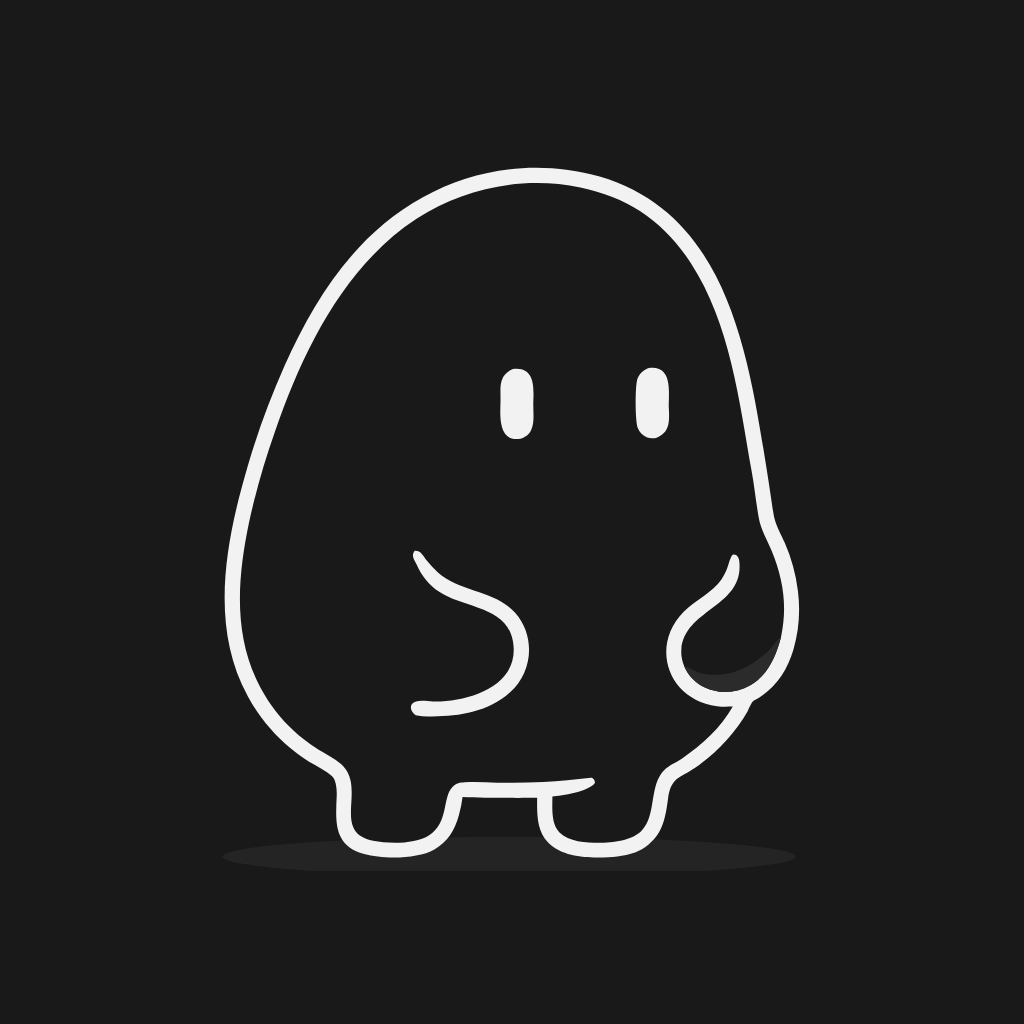
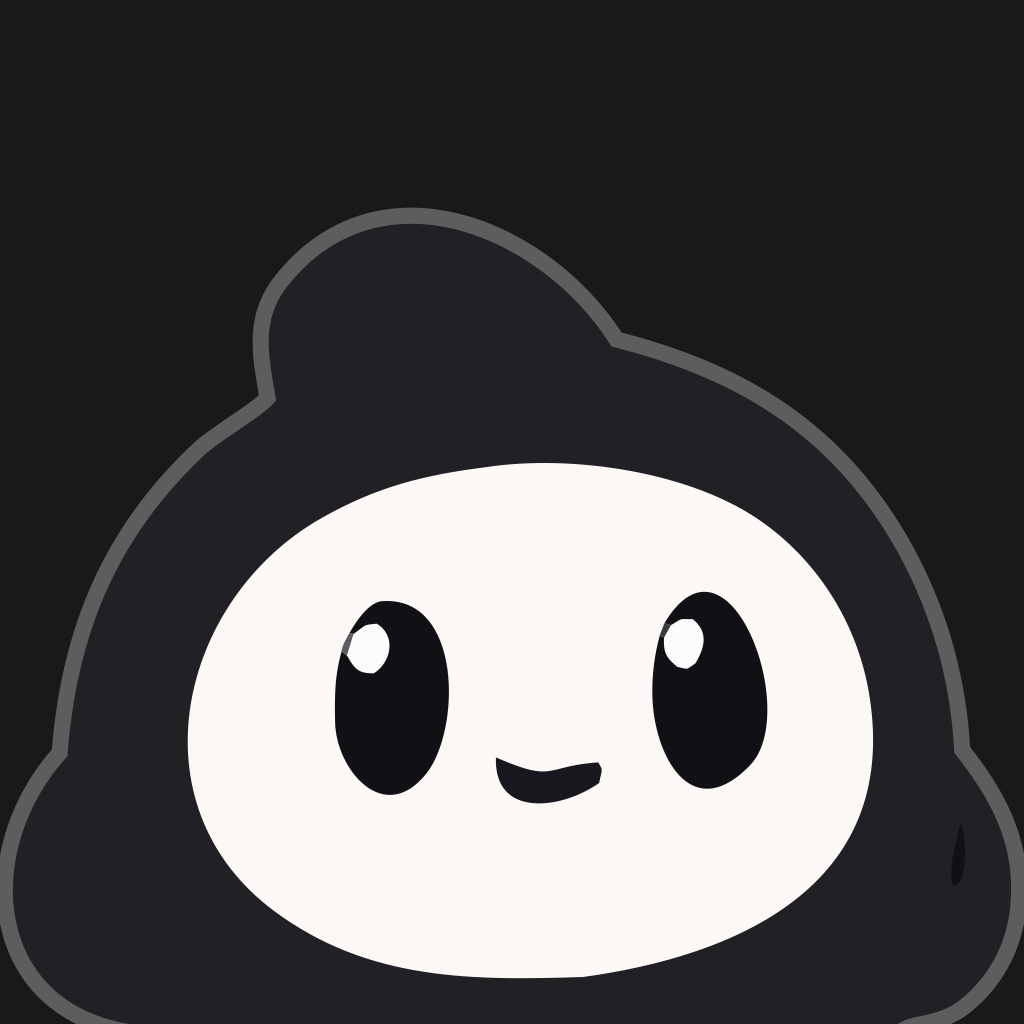
O Kiro novo na landing: a marca, o Kiro da abertura e o do fim, as fotos das telas e o ícone

Changed region(s): [[0.0, 0.1562, 1.0, 1.0]]

diff --git a/index.html b/index.html
@@ -63,6 +63,7 @@
       --trilha-forte: rgba(17, 17, 17, 0.22);
       --apple-texto: #FFFFFF;
       --kiro-sombra: #E7E6DF;
+      --kiro-contorno: transparent;
       color-scheme: light;
     }
     @media (prefers-color-scheme: dark) {
@@ -87,6 +88,8 @@
         --trilha-forte: rgba(242, 242, 242, 0.24);
         --apple-texto: #000000;
         --kiro-sombra: #1C1C1C;
+      --kiro-contorno: rgba(242, 242, 242, 0.3);
+        --kiro-contorno: rgba(242, 242, 242, 0.3);
         color-scheme: dark;
       }
     }
@@ -155,7 +158,7 @@
     }
     .topo .envelope { display: flex; align-items: center; justify-content: space-between; height: 72px; gap: 16px; }
     .marca { display: flex; align-items: center; gap: 10px; text-decoration: none; font: 700 22px/1 var(--titulo); letter-spacing: -0.02em; }
-    .marca svg { width: 28px; height: 33px; }
+    .marca svg { width: 28px; height: 30px; }
     .navegacao { display: flex; align-items: center; gap: 28px; }
     .navegacao a { text-decoration: none; padding: 12px 0; font: 600 15px/1 var(--fonte); color: var(--suave); transition: color .2s; }
     .navegacao a:hover { color: var(--texto); }
@@ -797,12 +800,21 @@
   <!-- End Google Tag Manager (noscript) -->
   <svg width="0" height="0" style="position:absolute" aria-hidden="true">
     <defs>
-      <path id="k-corpo" d="M 907.65 1459.18 C 906.217 1470.22 904.03 1481.16 901.105 1491.91 C 893.621 1518.53 882.157 1538.29 857.594 1552.43 C 827.382 1569.83 766.12 1569.7 733.293 1560.41 C 678.182 1545.43 682.428 1502.75 684.382 1456.77 C 684.807 1446.78 683.555 1429.44 676.188 1422.66 C 662.929 1410.47 643.564 1402.73 628.66 1392.4 C 618.997 1385.7 610.302 1379.27 601.37 1371.89 C 570.81 1346.52 545.427 1315.49 526.61 1280.51 C 457.451 1154.11 488.299 1002.76 526.658 871.514 C 544.496 811.122 566.26 751.961 591.814 694.408 C 645.967 573.781 718.693 460.046 838 394.923 C 933.379 341.871 1045.91 328.842 1150.89 358.699 C 1376.8 425.262 1413.62 669.629 1445.89 869.98 C 1449.15 890.127 1452.25 910.301 1455.19 930.497 C 1456.66 940.194 1458.56 954.634 1460.65 963.772 C 1463.88 977.965 1473.29 994.668 1479.23 1008.41 C 1491.05 1035.47 1498.9 1064.09 1502.52 1093.4 C 1507.12 1128.32 1504.45 1163.81 1494.68 1197.65 C 1482.75 1237.54 1460.92 1268.95 1423.99 1288.75 C 1420.15 1291.4 1415.84 1302.2 1413.4 1307.16 C 1390.28 1347.11 1358.47 1381.35 1320.32 1407.33 C 1292.74 1426.13 1277.45 1423.95 1272.18 1462.54 C 1266.76 1502.28 1261.36 1529.72 1225.9 1552.22 L 1214.83 1557.35 C 1191.03 1565.32 1173.68 1566.52 1148.51 1566.67 C 1118.19 1566.84 1082.54 1563.12 1059.82 1540.58 C 1038.87 1519.81 1039.64 1488.33 1039.95 1460.89 C 1001.1 1460.98 945.637 1461.24 907.65 1459.18 z" />
-      <path id="k-miolo" d="M 1067 1458.34 C 1083.98 1457.19 1130.43 1449.51 1141.72 1435.29 C 1144.06 1432.34 1140.02 1424.75 1135.47 1425.18 C 1107.15 1427.87 1079.83 1431.26 1051.21 1432.76 C 1023.93 1434.18 996.606 1434.57 969.295 1433.93 C 950.316 1433.52 930.593 1431.74 911.67 1433.19 C 902.855 1433.86 896.825 1434.54 890.161 1441.05 C 870.923 1459.83 884.348 1503.1 848.34 1527.17 C 824.099 1543.37 776.289 1542.42 748.934 1536.98 C 680.541 1523.35 727.723 1457.01 702.86 1414.25 C 691.76 1395.16 670.295 1386.7 652.336 1375.49 C 642.836 1369.56 633.649 1362.87 624.787 1356.02 C 600.623 1337.02 579.691 1314.23 562.801 1288.54 C 499.528 1191.77 506.025 1082.13 528.527 973.539 C 540.475 918.566 555.909 864.41 574.736 811.397 C 624.038 669.187 696.392 518.685 825.96 433.729 C 911.855 377.792 1016.26 357.768 1116.75 377.956 C 1202.03 395.86 1264.57 438.128 1312.47 511.946 C 1382.81 620.352 1398.25 756.965 1420.58 881.789 C 1425.43 908.868 1428.34 937.089 1433.09 964.135 C 1436.75 985.028 1448.08 1003.26 1455.950 1022.59 C 1476.93 1074.1 1484.05 1121.37 1472.57 1175.8 C 1463.61 1209.96 1449.3 1243.04 1417.42 1261.76 C 1377.64 1285.11 1318.9 1271.48 1300.71 1226.79 C 1296.77 1216.67 1294.91 1208.15 1295.84 1197.24 C 1301.86 1126.09 1405.37 1121.91 1398.78 1043.79 C 1398.31 1038.21 1397.89 1035.13 1394.15 1030.93 C 1389.98 1028.91 1386.92 1028.08 1384.51 1032.63 C 1381.58 1038.15 1380.22 1044.15 1378.28 1050.06 C 1375.61 1058.37 1371.78 1066.27 1366.91 1073.51 C 1352.02 1096.15 1319.55 1110.83 1299.89 1130.93 C 1238.75 1193.43 1273.48 1287.04 1358.98 1298.39 C 1368.57 1299.66 1377.39 1299.24 1387.02 1299.05 C 1365.49 1336.85 1333 1366.97 1297.17 1391.04 C 1283.36 1400.31 1269.63 1404.23 1259.950 1418.26 C 1239.7 1447.59 1250.3 1491.91 1225.98 1518.57 C 1208.92 1537.26 1173.53 1540.67 1149.77 1540.72 C 1128.43 1540.76 1095.52 1538.76 1079.58 1522.28 C 1064.39 1506.58 1066.96 1478.9 1067 1458.34 z" />
-      <path id="k-vinco" d="M 1472.57 1175.8 C 1463.61 1209.96 1449.3 1243.04 1417.42 1261.76 C 1377.64 1285.11 1318.9 1271.48 1300.71 1226.79 C 1308.45 1228.5 1319.73 1236.73 1327.68 1238.81 C 1373.6 1251.41 1417.27 1231.72 1450.18 1199.79 C 1456.17 1193.99 1465.96 1178.75 1472.57 1175.8 z" />
-      <path id="k-boca" d="M 822.693 1022.7 C 834.305 1022.47 837.329 1031.6 844.451 1040.46 C 850.382 1047.87 856.914 1054.77 863.979 1061.11 C 903.153 1096.38 964.363 1091.84 1000.48 1132.19 C 1037.7 1173.8 1032.61 1237.38 991.449 1274.08 C 948.883 1312.02 889.903 1318.19 835.748 1316.02 L 824.514 1314.5 C 818.211 1309.82 812.889 1301.75 817.787 1294.48 C 824.79 1285.4 844.075 1289.57 854.592 1289.87 C 917.133 1291.65 1011.55 1262.62 996.898 1182.47 C 985.698 1121.22 908.119 1123.89 866.205 1095.44 C 847.709 1082.88 835.643 1067.84 826.315 1047.3 C 822.088 1038.22 815.75 1032.26 822.693 1022.7 z" />
-      <path id="k-olho-d" d="M 1238.1 698.181 C 1282.66 693.042 1272.56 744.168 1273.7 771.925 C 1274.66 795.085 1275.03 812.773 1250.69 822.708 C 1244.8 823.284 1239.74 823.224 1234.16 821.024 C 1226.71 818.085 1221.5 812.128 1218.53 804.782 C 1213.84 793.182 1213.24 728.042 1218.25 716.452 C 1222.4 706.844 1228.6 702.027 1238.1 698.181 z" />
-      <path id="k-olho-e" d="M 996.871 700.229 C 1034.92 695.616 1034.3 730.488 1033.17 757.411 C 1032.66 769.711 1034.35 782.694 1032.92 795.076 C 1032.44 799.578 1031.24 803.974 1029.36 808.096 C 1025.39 816.63 1018.69 820.906 1010.16 823.885 C 970.547 830.019 974.284 783.578 974.925 758.46 C 975.542 734.277 969.949 712.016 996.871 700.229 z" />
+      <!-- O Kiro novo (22/11), as mesmas peças do app (desenho-do-kiro-neutro.tsx). -->
+      <path id="k-silhueta" d="M11.8549 115.747C13.7841 89.8514 22.1783 68.7142 41.3309 50.545C45.3263 46.7493 54.7263 41.7187 57.2212 38.3614C55.6687 29.0096 53.638 21.1561 59.7833 13.4284C80.4833 -12.5981 115.719 3.26068 130.097 26.6642C156.104 33.2321 176.525 44.6868 190.958 68.9477C199.2 82.9034 203.903 98.7362 204.639 115.018C212.697 125.129 218.26 135.24 216.753 148.855C215.933 156.698 212.027 163.871 205.935 168.698C201.29 172.444 195.746 171.91 192.833 173.631C190.342 175.101 182.896 184.999 180.148 187.781C174.309 193.689 165.422 194.068 164.197 201.815L165 201.735C163.209 207.312 162.597 209.42 159.726 214.4C147.715 225.605 130.66 224.762 122 209.587L120.642 210.071C117.155 210.06 102.109 209.755 99.7307 210.5L96 215.228C85.2387 225.622 70.4812 223.258 60.1468 213.516L58 208.303L56 200.873L54.7148 198.72C40.1779 189.63 36.9867 188.726 25.7247 174.011C-4.69074 169.34 -6.55628 135.785 11.8549 115.747Z" />
+      <path id="k-braco-e" d="M25.7247 174.011C-4.69074 169.34 -6.55628 135.785 11.8549 115.747C30 124 38 158 25.7247 174.011Z" />
+      <path id="k-tronco" d="M11.8549 115.747C13.7841 89.8514 22.1783 68.7142 41.3309 50.545C45.3263 46.7493 54.7263 41.7187 57.2212 38.3614C55.6687 29.0096 53.638 21.1561 59.7833 13.4284C80.4833 -12.5981 115.719 3.26068 130.097 26.6642C156.104 33.2321 176.525 44.6868 190.958 68.9477C199.2 82.9034 203.903 98.7362 204.639 115.018C205.5 134.6 202.8 167.7 192.833 173.631C190.342 175.101 182.896 184.999 180.148 187.781C174.309 193.689 165.422 194.068 164.197 201.815L164.219 199C160.921 199.166 146.825 204.137 142.155 205.411C134.783 207.421 129.399 208.126 122 209.587L120.642 210.071C117.155 210.06 102.109 209.755 99.7307 210.5L99.2537 209.508C85.2505 207.611 72.1002 203.844 58.5021 200L56 200.873L54.7148 198.72C40.1779 189.63 36.9867 188.726 25.7247 174.011C17.2 162.9 10.3 136.5 11.8549 115.747Z" />
+      <path id="k-pe-d" d="M122 209.587C129.399 208.126 134.783 207.421 142.155 205.411C146.825 204.137 160.921 199.166 164.219 199L165 201.735C163.209 207.312 162.597 209.42 159.726 214.4C147.715 225.605 130.66 224.762 122 209.587Z" />
+      <path id="k-pe-e" d="M58 208.303L59.1798 206C71.33 206.543 75.758 208.719 86.8727 212.735C89.2224 213.576 93.618 214.11 96 215.228C85.2387 225.622 70.4812 223.258 60.1468 213.516L58 208.303Z" />
+      <path id="k-pe-e-dobra" d="M56 200.873C56.1768 200.815 58.5021 200 58.5021 200C72.1002 203.844 85.2505 207.611 99.2537 209.508C99.5021 209.633 99.7517 209.767 100 209.901C99.1434 211.079 97.1379 214.032 96.2474 215C93.8481 213.917 89.417 213.399 87.0491 212.584C75.8478 208.693 71.3853 206.585 59.1418 206.058L57.9515 208.29C56.9971 206.212 56.4954 203.182 56 200.873Z" />
+      <path id="k-braco-d" d="M204.639 115.018C212.697 125.129 218.26 135.24 216.753 148.855C215.933 156.698 212.027 163.871 205.935 168.698C201.29 172.444 195.746 171.91 192.833 173.631C188 160 192 128 204.639 115.018Z" />
+      <path id="k-dobra" d="M206.081 130C207.157 133.736 207.802 141.146 205.004 144L204.033 143.332C203.803 138.057 204.8 135.102 206.081 130Z" />
+      <path id="k-rosto" d="M102.848 52.9047C121.287 50.0795 147.791 53.7948 163.311 65.1278C175.624 74.06 183.892 87.6673 186.252 102.9C192.619 144.069 157.17 159.204 123.904 163.743C99.9556 164.479 77.3646 164.653 56.844 149.43C25.6319 126.281 36.0807 81.5319 67.0853 63.9757C79.1973 57.1153 89.2982 54.6179 102.848 52.9047Z" />
+      <path id="k-boca" d="M105.014 116C118.022 121.659 115.404 117.878 127.241 117.085C128.438 119.027 127.99 118.604 127.454 121.548C119.371 127.326 104.479 129.323 105.014 116Z" />
+      <path id="k-olho-d" d="M141.654 86.8075C155.538 63.632 171.34 106.129 160.301 117.648C147.314 131.2 139.217 115.185 139.009 102.472C138.921 98.0658 139.471 93.672 140.642 89.4278L141.654 86.8075Z" />
+      <path id="k-olho-e" d="M73.1492 89.0092C74.5572 86.494 77.3542 82.2417 80.2632 82.0374C97.7382 80.8112 97.4581 110.112 89.8071 119.593C80.5691 131.042 70.1952 118.522 70.0422 108.298C69.9282 102.544 69.9442 98.4657 71.4352 92.9933C71.7582 91.3816 72.3832 90.4418 73.1492 89.0092Z" />
+      <path id="k-brilho-d" d="M143.046 87.2392C145.849 85.6133 144.595 85.9462 147.794 85.9431C151.242 88.7324 150.455 92.0327 148.379 95.5616C146.084 97.0619 147.133 96.8565 144.464 96.3375C141.985 94.2959 141.387 93.2164 141.552 89.9627L140.642 89.4275L141.654 86.8071L143.046 87.2392Z" />
+      <path id="k-brilho-e" d="M74.0431 89.1597C77.0911 87.0057 75.929 87.2788 79.092 86.9268C83.452 89.5137 82.2291 95.3908 78.4611 97.7289C75.1031 97.7157 74.375 96.9286 72.618 93.8398L71.4351 92.9931C71.7581 91.3814 72.383 90.4415 73.149 89.0089L74.0431 89.1597Z" />
     </defs>
   </svg>
 
@@ -811,12 +823,7 @@
   <header class="topo">
     <div class="envelope">
       <a class="marca" href="#" aria-label="Think Capture, início">
-        <svg viewBox="461.333 318.667 1068 1272" aria-hidden="true">
-          <use href="#k-corpo" fill="var(--kiro-corpo)" />
-          <use href="#k-miolo" fill="var(--kiro-miolo)" />
-          <use href="#k-olho-d" fill="var(--kiro-corpo)" />
-          <use href="#k-olho-e" fill="var(--kiro-corpo)" />
-        </svg>
+        <svg viewBox="-4 -4 225 242" aria-hidden="true"><use href="#k-silhueta" fill="none" stroke="var(--kiro-contorno)" stroke-width="4.6" stroke-linejoin="round" /><use href="#k-braco-e" fill="#212124" /><use href="#k-tronco" fill="#212124" /><use href="#k-pe-d" fill="#111114" /><use href="#k-pe-e" fill="#18171D" /><use href="#k-pe-e-dobra" fill="#111114" /><use href="#k-braco-d" fill="#212124" /><use href="#k-dobra" fill="#111114" /><use href="#k-rosto" fill="#FBF8F5" /><use href="#k-boca" fill="#18171D" /><use href="#k-olho-d" fill="#111114" /><use href="#k-olho-e" fill="#111114" /><use href="#k-brilho-d" fill="#FCFBFC" /><use href="#k-brilho-e" fill="#FCFBFC" /></svg>
         Think Capture
       </a>
       <nav class="navegacao" aria-label="Principal">
@@ -898,16 +905,15 @@
             </div>
             <div class="kiro" id="kiro" role="button" tabindex="0" aria-label="Kiro, o mascote do Think Capture. Toque para ele acenar.">
               <div class="kiro-pulo" id="kiro-pulo">
-                <svg viewBox="461.333 300 1068 1300" aria-hidden="true">
-                  <ellipse cx="990" cy="1565" rx="508.5" ry="35" fill="var(--kiro-sombra)" />
-                  <use href="#k-corpo" fill="var(--kiro-corpo)" />
-                  <use href="#k-miolo" fill="var(--kiro-miolo)" />
-                  <use href="#k-vinco" fill="var(--kiro-sombra)" />
-                  <g id="k-boca-giro"><use href="#k-boca" fill="var(--kiro-corpo)" /></g>
-                  <g id="k-olhos"><g id="k-piscar">
-                    <use href="#k-olho-d" fill="var(--kiro-corpo)" />
-                    <use href="#k-olho-e" fill="var(--kiro-corpo)" />
-                  </g></g>
+                <svg viewBox="-4 -12 225 250" aria-hidden="true">
+                  <ellipse cx="109.5" cy="225" rx="93" ry="8.5" fill="var(--kiro-sombra)" />
+                  <use href="#k-silhueta" fill="none" stroke="var(--kiro-contorno)" stroke-width="4.6" stroke-linejoin="round" />
+                  <g id="k-desliza-e"><g id="k-boca-giro"><use href="#k-braco-e" fill="#212124" /></g></g>
+                  <use href="#k-tronco" fill="#212124" />
+                  <use href="#k-pe-d" fill="#111114" /><use href="#k-pe-e" fill="#18171D" /><use href="#k-pe-e-dobra" fill="#111114" />
+                  <g id="k-desliza-d"><use href="#k-braco-d" fill="#212124" /><use href="#k-dobra" fill="#111114" /></g>
+                  <use href="#k-rosto" fill="#FBF8F5" /><use href="#k-boca" fill="#18171D" />
+                  <g id="k-olhos"><g id="k-piscar"><use href="#k-olho-d" fill="#111114" /><use href="#k-olho-e" fill="#111114" /><use href="#k-brilho-d" fill="#FCFBFC" /><use href="#k-brilho-e" fill="#FCFBFC" /></g></g>
                 </svg>
               </div>
             </div>
@@ -1217,14 +1223,15 @@
             </div>
           </div>
           <div class="kiro-final" id="kiro-final" role="button" tabindex="0" aria-label="Kiro acenando">
-            <svg viewBox="461.333 300 1068 1300" aria-hidden="true">
-              <ellipse cx="990" cy="1565" rx="508.5" ry="35" fill="var(--kiro-sombra)" />
-              <use href="#k-corpo" fill="var(--kiro-corpo)" />
-              <use href="#k-miolo" fill="var(--kiro-miolo)" />
-              <use href="#k-vinco" fill="var(--kiro-sombra)" />
-              <g id="k-boca-final"><use href="#k-boca" fill="var(--kiro-corpo)" /></g>
-              <use href="#k-olho-d" fill="var(--kiro-corpo)" />
-              <use href="#k-olho-e" fill="var(--kiro-corpo)" />
+            <svg viewBox="-4 -12 225 250" aria-hidden="true">
+              <ellipse cx="109.5" cy="225" rx="93" ry="8.5" fill="var(--kiro-sombra)" />
+              <use href="#k-silhueta" fill="none" stroke="var(--kiro-contorno)" stroke-width="4.6" stroke-linejoin="round" />
+              <g id="k-boca-final"><use href="#k-braco-e" fill="#212124" /></g>
+              <use href="#k-tronco" fill="#212124" />
+              <use href="#k-pe-d" fill="#111114" /><use href="#k-pe-e" fill="#18171D" /><use href="#k-pe-e-dobra" fill="#111114" />
+              <use href="#k-braco-d" fill="#212124" /><use href="#k-dobra" fill="#111114" />
+              <use href="#k-rosto" fill="#FBF8F5" /><use href="#k-boca" fill="#18171D" />
+              <use href="#k-olho-d" fill="#111114" /><use href="#k-olho-e" fill="#111114" /><use href="#k-brilho-d" fill="#FCFBFC" /><use href="#k-brilho-e" fill="#FCFBFC" />
             </svg>
           </div>
         </div>
@@ -1969,7 +1976,10 @@
     passarSozinho();
 
     // ---------- O Kiro: olha, pisca, acena e pula ----------
-    var PIVO = '824 1030', OLHOS_Y = 761;
+    // O Kiro novo (22/11): o ombro esquerdo, o meio dos olhos e o meio do corpo, nas unidades do desenho.
+    var PIVO = '20 125', OLHOS_Y = 104, MEIO = ' 110 132';
+    var deslizaE = document.getElementById('k-desliza-e');
+    var deslizaD = document.getElementById('k-desliza-d');
     var kiro = document.getElementById('kiro');
     var pulo = document.getElementById('kiro-pulo');
     var olhos = document.getElementById('k-olhos');
@@ -1982,7 +1992,7 @@
       var r = kiro.getBoundingClientRect();
       var dx = e.clientX - (r.left + r.width * 0.62), dy = e.clientY - (r.top + r.height * 0.36);
       var d = Math.hypot(dx, dy) || 1, f = Math.min(1, d / 320);
-      alvo.x = (dx / d) * 34 * f; alvo.y = (dy / d) * 26 * f;
+      alvo.x = (dx / d) * 7 * f; alvo.y = (dy / d) * 5 * f;
     }, { passive: true });
     (function olhar() {
       if (palcoNaTela && !semMovimento()) {
@@ -2007,9 +2017,10 @@
       acenando[g.id] = true;
       animar(1500, function (t) {
         var ang;
-        if (t < 0.18) ang = -72 * curva(t / 0.18);
-        else if (t < 0.82) ang = -72 + Math.sin(((t - 0.18) / 0.64) * Math.PI * 3) * 24;
-        else ang = -72 * (1 - curva((t - 0.82) / 0.18));
+        // O tchau do app: o braço sobe a 30° e balança até 18°, duas vezes.
+        if (t < 0.18) ang = 30 * curva(t / 0.18);
+        else if (t < 0.82) ang = 24 + Math.sin(((t - 0.18) / 0.64) * Math.PI * 4 + Math.PI / 2) * 6;
+        else ang = 30 * (1 - curva((t - 0.82) / 0.18));
         g.setAttribute('transform', 'rotate(' + ang.toFixed(2) + ' ' + PIVO + ')');
       }, function () { g.removeAttribute('transform'); acenando[g.id] = false; });
     }
@@ -2022,7 +2033,15 @@
         if (t < 0.15) { var a = t / 0.15; sx = 1 + 0.07 * a; sy = 1 - 0.08 * a; }
         else if (t < 0.6) { var h = Math.sin(((t - 0.15) / 0.45) * Math.PI); y = -36 * h; sx = 1 - 0.03 * h; sy = 1 + 0.05 * h; }
         pulo.style.transform = 'translateY(' + y.toFixed(1) + 'px) scale(' + sx.toFixed(3) + ',' + sy.toFixed(3) + ')';
-      }, function () { pulo.style.transform = ''; pulando = false; });
+        // Os braços deslizam em volta do corpo, sem abrir, como no app.
+        var g = (16 * (-y / 36)).toFixed(2);
+        if (deslizaE) deslizaE.setAttribute('transform', 'rotate(' + g + MEIO + ')');
+        if (deslizaD) deslizaD.setAttribute('transform', 'rotate(' + (-g) + MEIO + ')');
+      }, function () {
+        pulo.style.transform = ''; pulando = false;
+        if (deslizaE) deslizaE.removeAttribute('transform');
+        if (deslizaD) deslizaD.removeAttribute('transform');
+      });
     }
     var FALAS = ['Oi! Eu sou o Kiro.', 'Me dá um pensamento que eu guardo.', 'Cabeça leve decide melhor.', 'Essas são as telas do aplicativo.'];
     var indice = 0, relogioFala = null;
